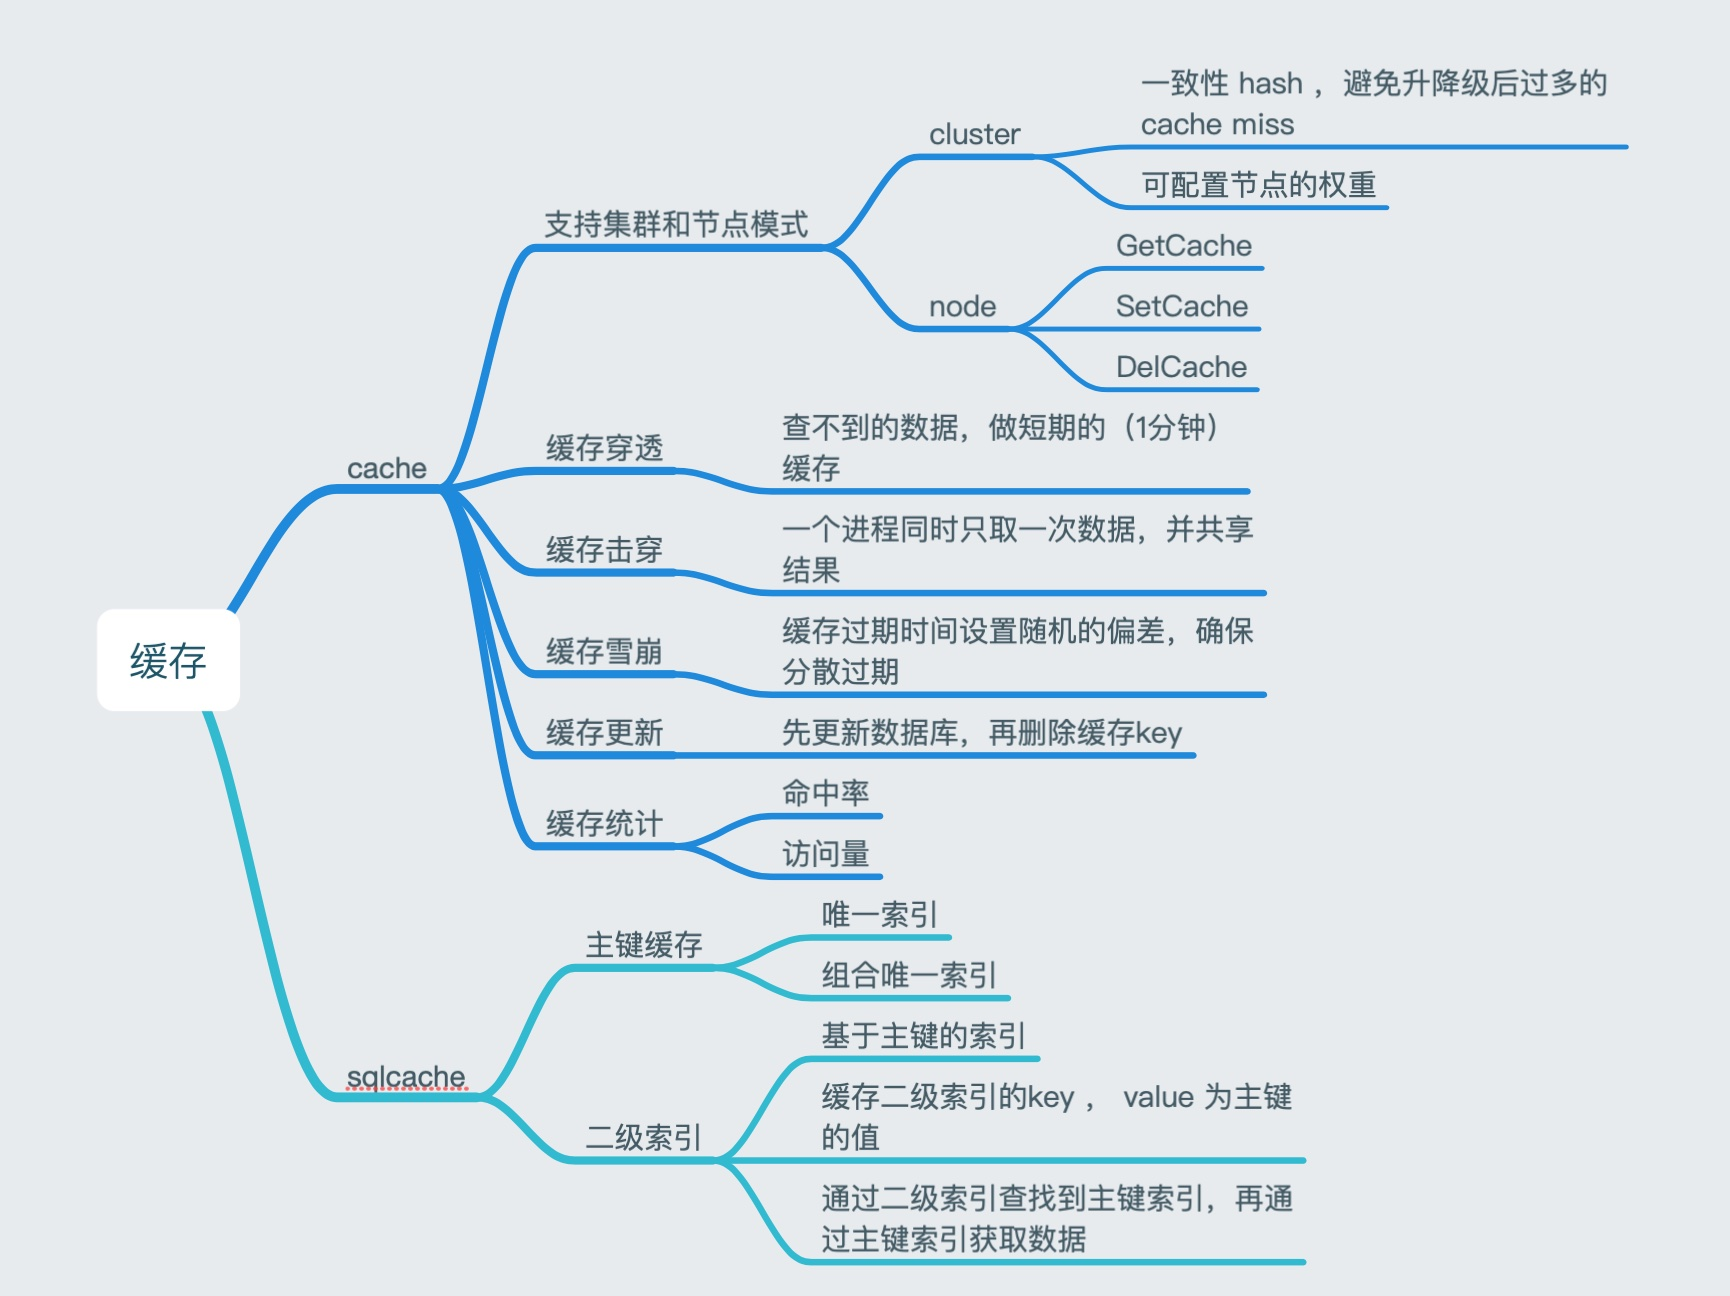
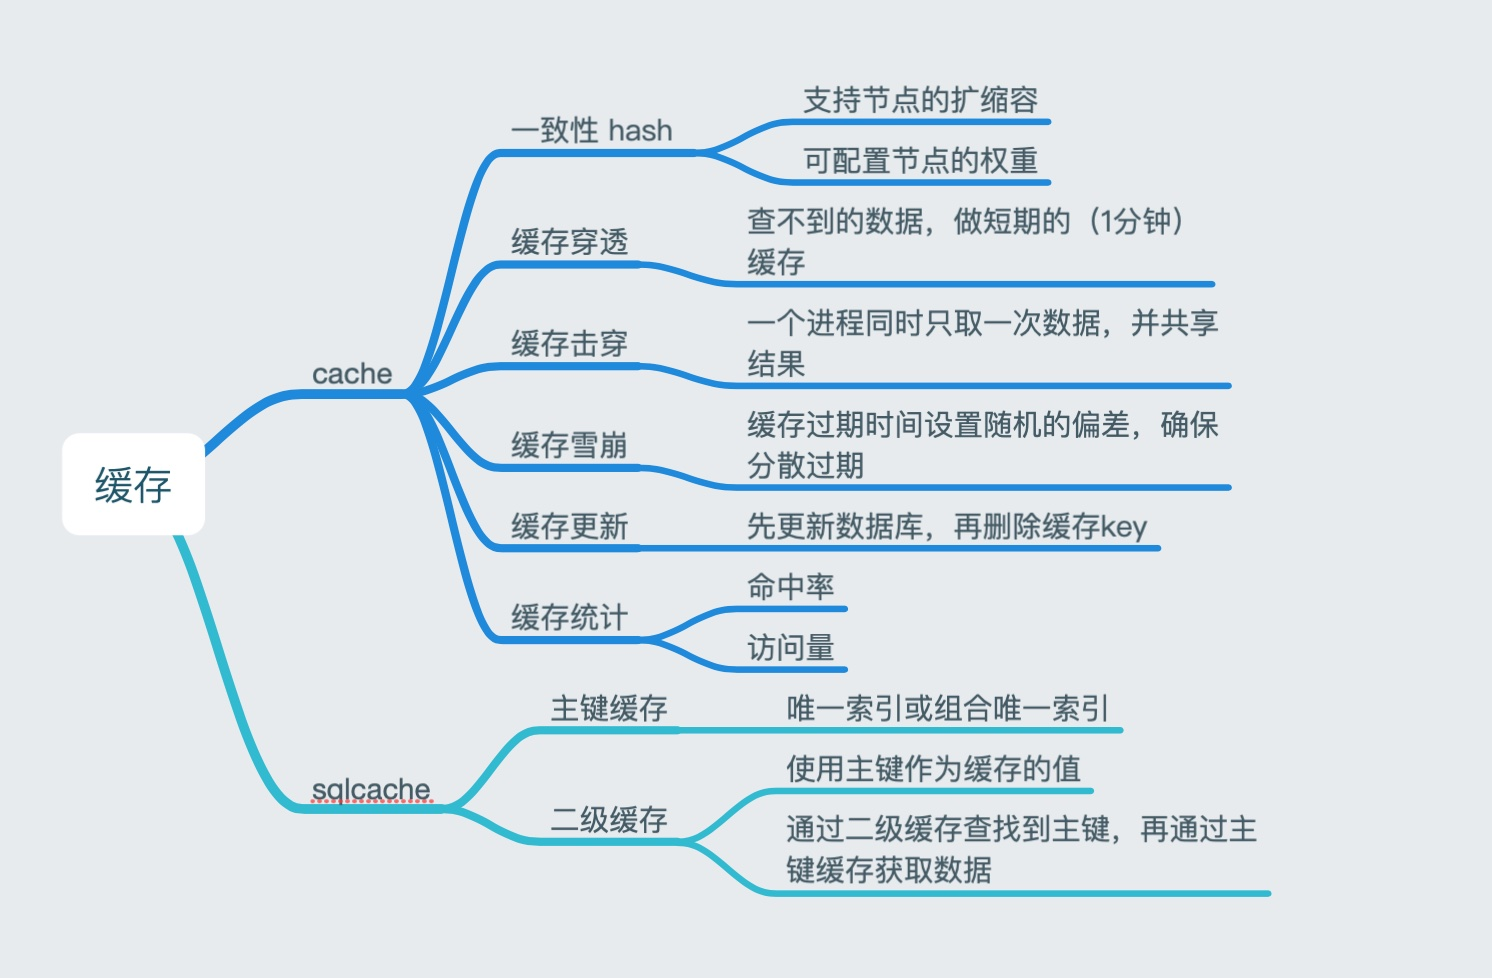
readme

Changed region(s): [[0.0617, 0.0307, 0.9558, 0.9816]]

diff --git a/cache/cache.go b/cache/cache.go
@@ -50,7 +50,7 @@ func NewCache(c ClusterConf, barrier singleflight.SharedCalls, st *CacheStat, er
 		return NewCacheNode(c[0].NewRedis(), barrier, st, errNotFound, opts...)
 	}
 
-	// 使用集群模式，遍历初始化
+	// 使用一致性 hash
 	dispatcher := hash.NewConsistentHash()
 	for _, node := range c {
 		cn := NewCacheNode(node.NewRedis(), barrier, st, errNotFound, opts...)

diff --git a/README.md b/README.md
@@ -1,8 +1,9 @@
 # redis cache
-- 支持 Redis 的节点模式和集群模式
 - 防止缓存击穿、缓存穿透和缓存雪崩
-- hash 一致性，避免升降级后过多的 cache miss
-- 记录缓存命中率
-- 支持主键缓存和基于主键的二级缓存
+- 使用一致性 hash，支持节点的扩缩容
+- 可配置节点的权重，使某些节点承担更多或更少的任务
+- 自动缓存管理，缓存的添加、更新、过期等
+- 支持基于主键的二级缓存
+- 记录缓存访问量和命中率
 
 ![alt](doc/redis-cache.jpg)
